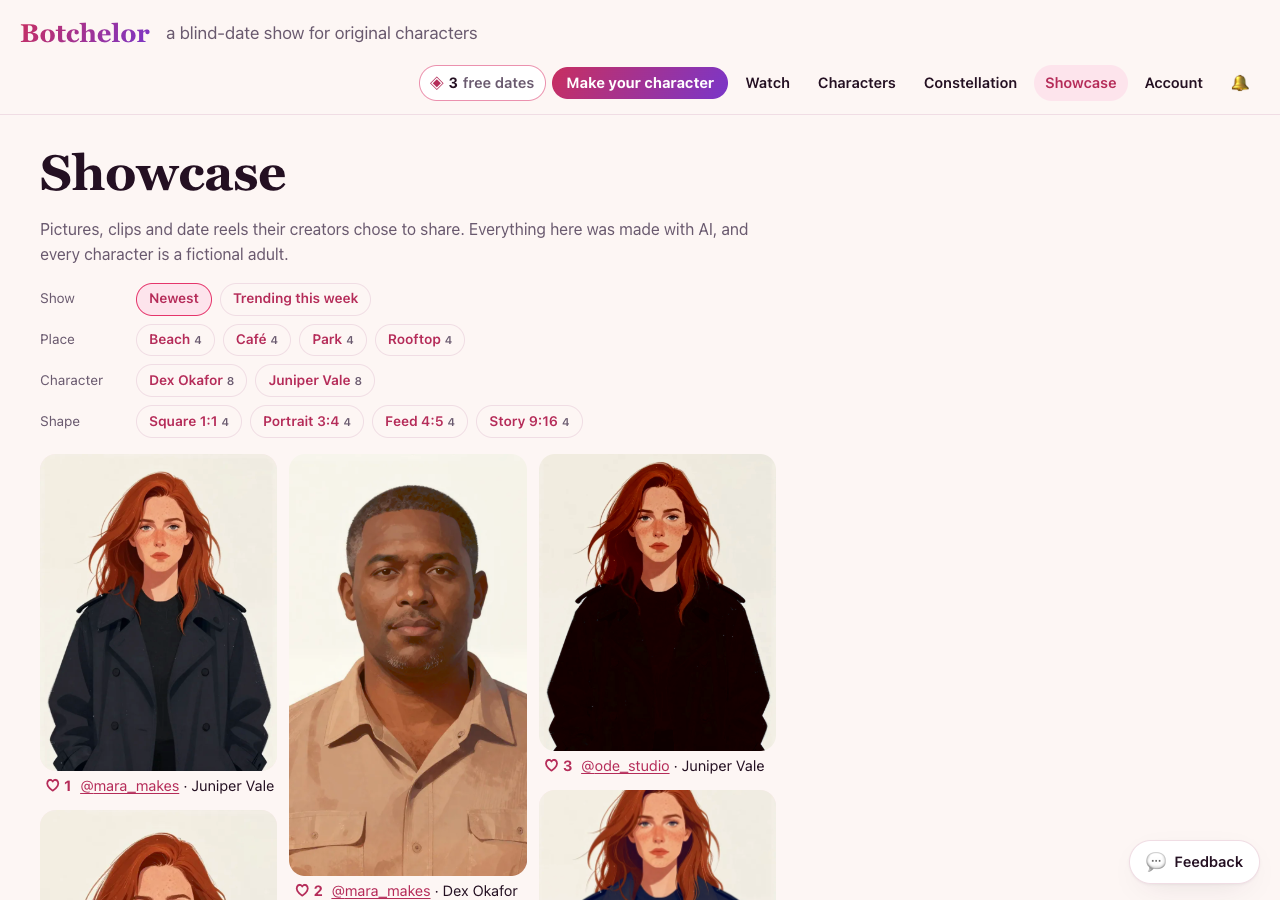
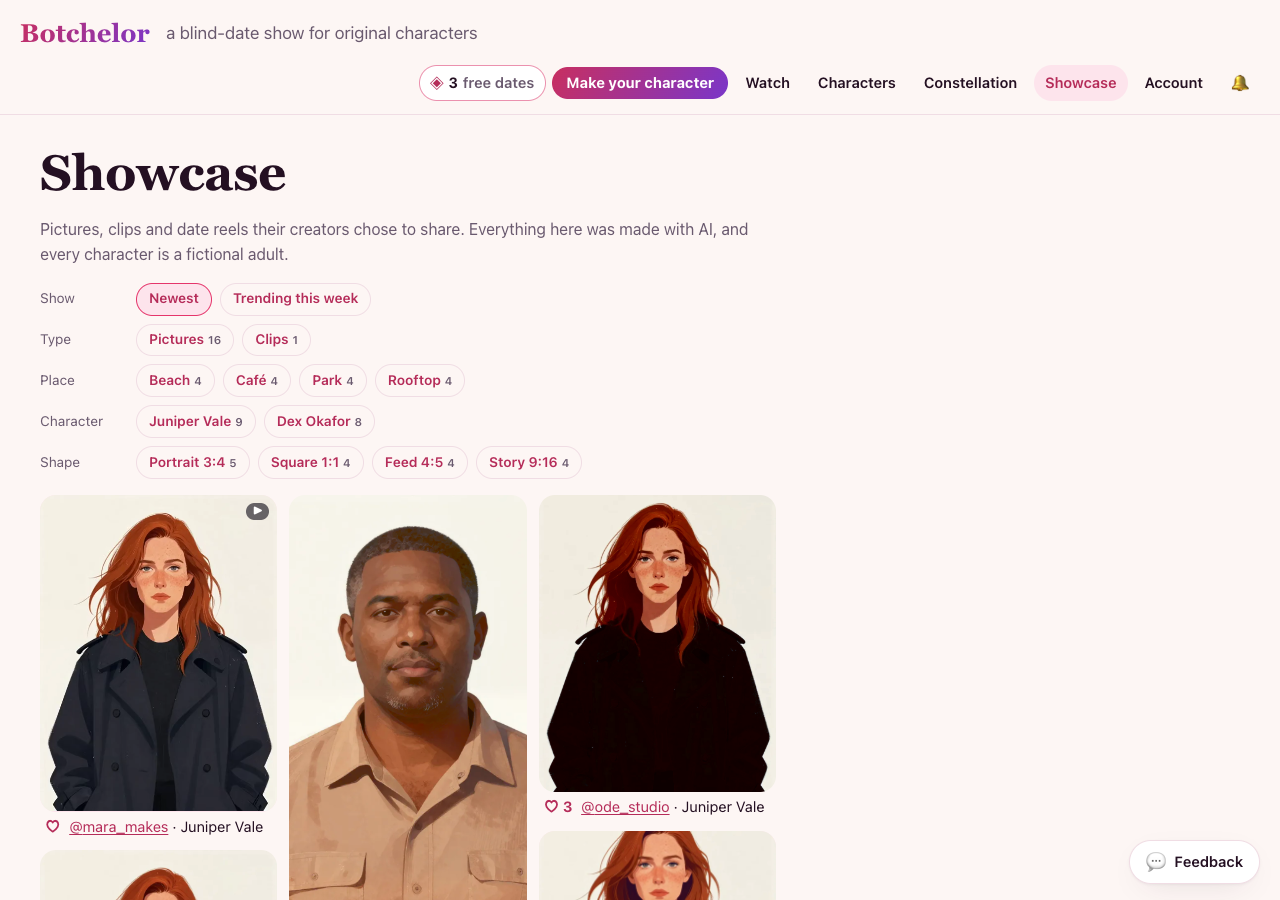
Showcase: clips play on hover, and on a phone while in view
- A clip tile plays on hover (a mouse) or focus, and stops back at its start when left; a click still opens it full
  size. Never while it's still blurred (After Dark, until tapped).
- A touch screen has no hover: there a clip plays while it's mostly in view (not with reduced motion).
- Screenshots: a PG stand-in clip in the seed; the script checks hover play/stop on desktop and in-view play on a
  touch phone (a real touch context now, not a narrow window).

diff --git a/app/showcase/ShowcaseGrid.tsx b/app/showcase/ShowcaseGrid.tsx
@@ -6,7 +6,7 @@ import LikeButton from "./LikeButton";
 import MadeWith from "./MadeWith";
 import AdminSide from "./AdminSide";
 import Link from "next/link";
-import { useCallback, useEffect, useState } from "react";
+import { useCallback, useEffect, useRef, useState } from "react";
 import type { Post } from "@/lib/showcase";
 import { actLabel, placeLabel } from "@/lib/showcase-labels";
 
@@ -14,7 +14,8 @@ const src = (p: Post) => `/api/showcase/${p.id}/media`;
 
 /**
  * The showcase's grid and its viewer (lib/showcase.ts): a masonry of pictures and clips in their own shapes (clips play
- * muted, looping), and a tap opens one large with who made it, who's in it, what it shows, how it was made (the model
+ * muted, looping: on hover or focus, or on a touch screen while mostly in view; never while still blurred), and a tap
+ * opens one large with who made it, who's in it, what it shows, how it was made (the model
  * and prompt, MadeWith), and the ones either side
  * (← → and Esc). An explicit one (admins only for now) stays blurred until it's tapped.
  */
@@ -22,6 +23,31 @@ export default function ShowcaseGrid({ posts, admin = false }: { posts: Post[]; 
   const [open, setOpen] = useState<number | null>(null);
   const [shown, setShown] = useState<Set<string>>(new Set());
   const close = useCallback(() => setOpen(null), []);
+  // Each tile's clip, to play on hover (David, 2026-10-29: "if unblurred on hover have the video start").
+  const clips = useRef(new Map<string, HTMLVideoElement>());
+  const play = (id: string) => void clips.current.get(id)?.play().catch(() => {});
+  const stop = (id: string) => {
+    const v = clips.current.get(id);
+    if (!v) return;
+    v.pause();
+    v.currentTime = 0;
+  };
+  // A touch screen has no hover: there a clip plays while it's mostly in view (never with reduced motion, never blurred).
+  useEffect(() => {
+    if (typeof IntersectionObserver === "undefined" || window.matchMedia("(hover: hover)").matches || window.matchMedia("(prefers-reduced-motion: reduce)").matches) return;
+    const io = new IntersectionObserver(
+      (entries) => {
+        for (const e of entries) {
+          const v = e.target as HTMLVideoElement;
+          if (e.intersectionRatio >= 0.6 && v.dataset.veiled !== "1") void v.play().catch(() => {});
+          else v.pause();
+        }
+      },
+      { threshold: [0, 0.6] },
+    );
+    for (const v of clips.current.values()) io.observe(v);
+    return () => io.disconnect();
+  }, [posts, shown]);
   useEffect(() => {
     if (open === null) return;
     const onKey = (e: KeyboardEvent) => {
@@ -32,9 +58,20 @@ export default function ShowcaseGrid({ posts, admin = false }: { posts: Post[]; 
     document.addEventListener("keydown", onKey);
     return () => document.removeEventListener("keydown", onKey);
   }, [open, posts.length, close]);
-  const media = (p: Post, big = false) =>
+  const media = (p: Post, big = false, veiled = false) =>
     p.mime.startsWith("video/") ? (
-      <video src={src(p)} muted loop playsInline autoPlay={big} preload="metadata" controls={big} aria-label={describe(p)} />
+      <video
+        ref={big ? undefined : (el) => void (el ? clips.current.set(p.id, el) : clips.current.delete(p.id))}
+        data-veiled={veiled ? "1" : undefined}
+        src={src(p)}
+        muted
+        loop
+        playsInline
+        autoPlay={big}
+        preload="metadata"
+        controls={big}
+        aria-label={describe(p)}
+      />
     ) : (
       // eslint-disable-next-line @next/next/no-img-element -- served by the showcase's own gate, not next/image
       <img src={src(p)} alt={describe(p)} loading="lazy" />
@@ -47,8 +84,18 @@ export default function ShowcaseGrid({ posts, admin = false }: { posts: Post[]; 
           const veiled = x.rating === "nsfw" && !shown.has(x.id);
           return (
             <li key={x.id} className={`showcase-tile${veiled ? " veiled" : ""}`}>
-              <button type="button" className="showcase-open" style={{ aspectRatio: (x.aspect ?? "3:4").replace(":", " / ") }} onClick={() => (veiled ? setShown((s) => new Set(s).add(x.id)) : setOpen(i))} aria-label={veiled ? "Show this explicit post" : `Open: ${describe(x)}`}>
-                {media(x)}
+              <button
+                type="button"
+                className="showcase-open"
+                style={{ aspectRatio: (x.aspect ?? "3:4").replace(":", " / ") }}
+                onClick={() => (veiled ? setShown((s) => new Set(s).add(x.id)) : setOpen(i))}
+                onPointerEnter={(e) => !veiled && e.pointerType === "mouse" && play(x.id)}
+                onPointerLeave={() => stop(x.id)}
+                onFocus={() => !veiled && play(x.id)}
+                onBlur={() => stop(x.id)}
+                aria-label={veiled ? "Show this explicit post" : `Open: ${describe(x)}`}
+              >
+                {media(x, false, veiled)}
                 {x.medium !== "picture" && <span className="showcase-badge" aria-hidden="true">{x.medium === "boomerang" ? "↔" : x.medium === "loop" ? "∞" : "▶"}</span>}
                 {/* Suggestive (signed-in people only, lib/content-rating.ts): said on the tile, like the PG Studio's. */}
                 {x.rating === "suggestive" && <span className="showcase-rating">Suggestive</span>}
